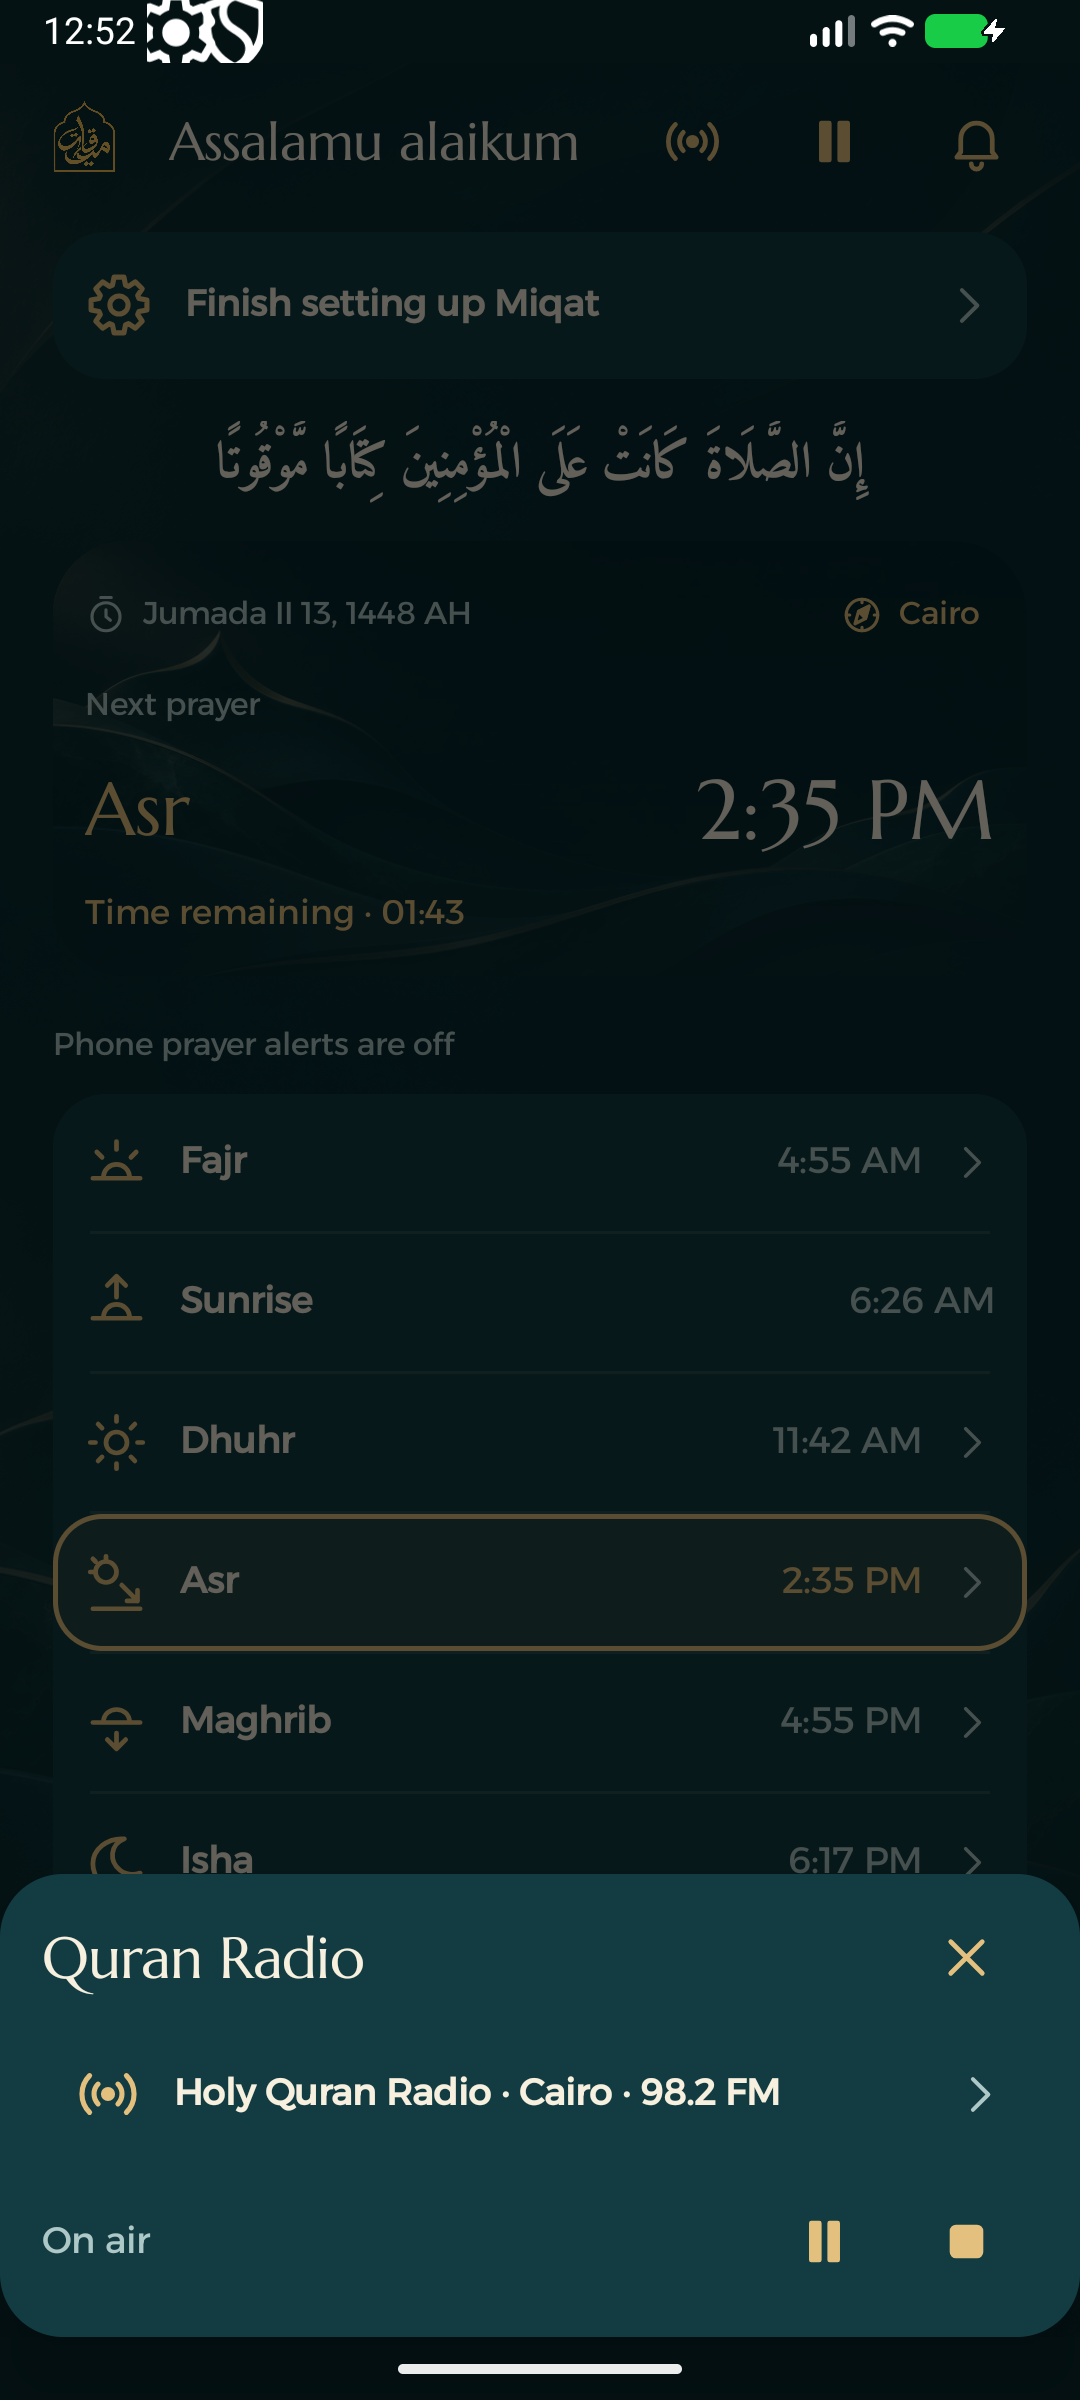
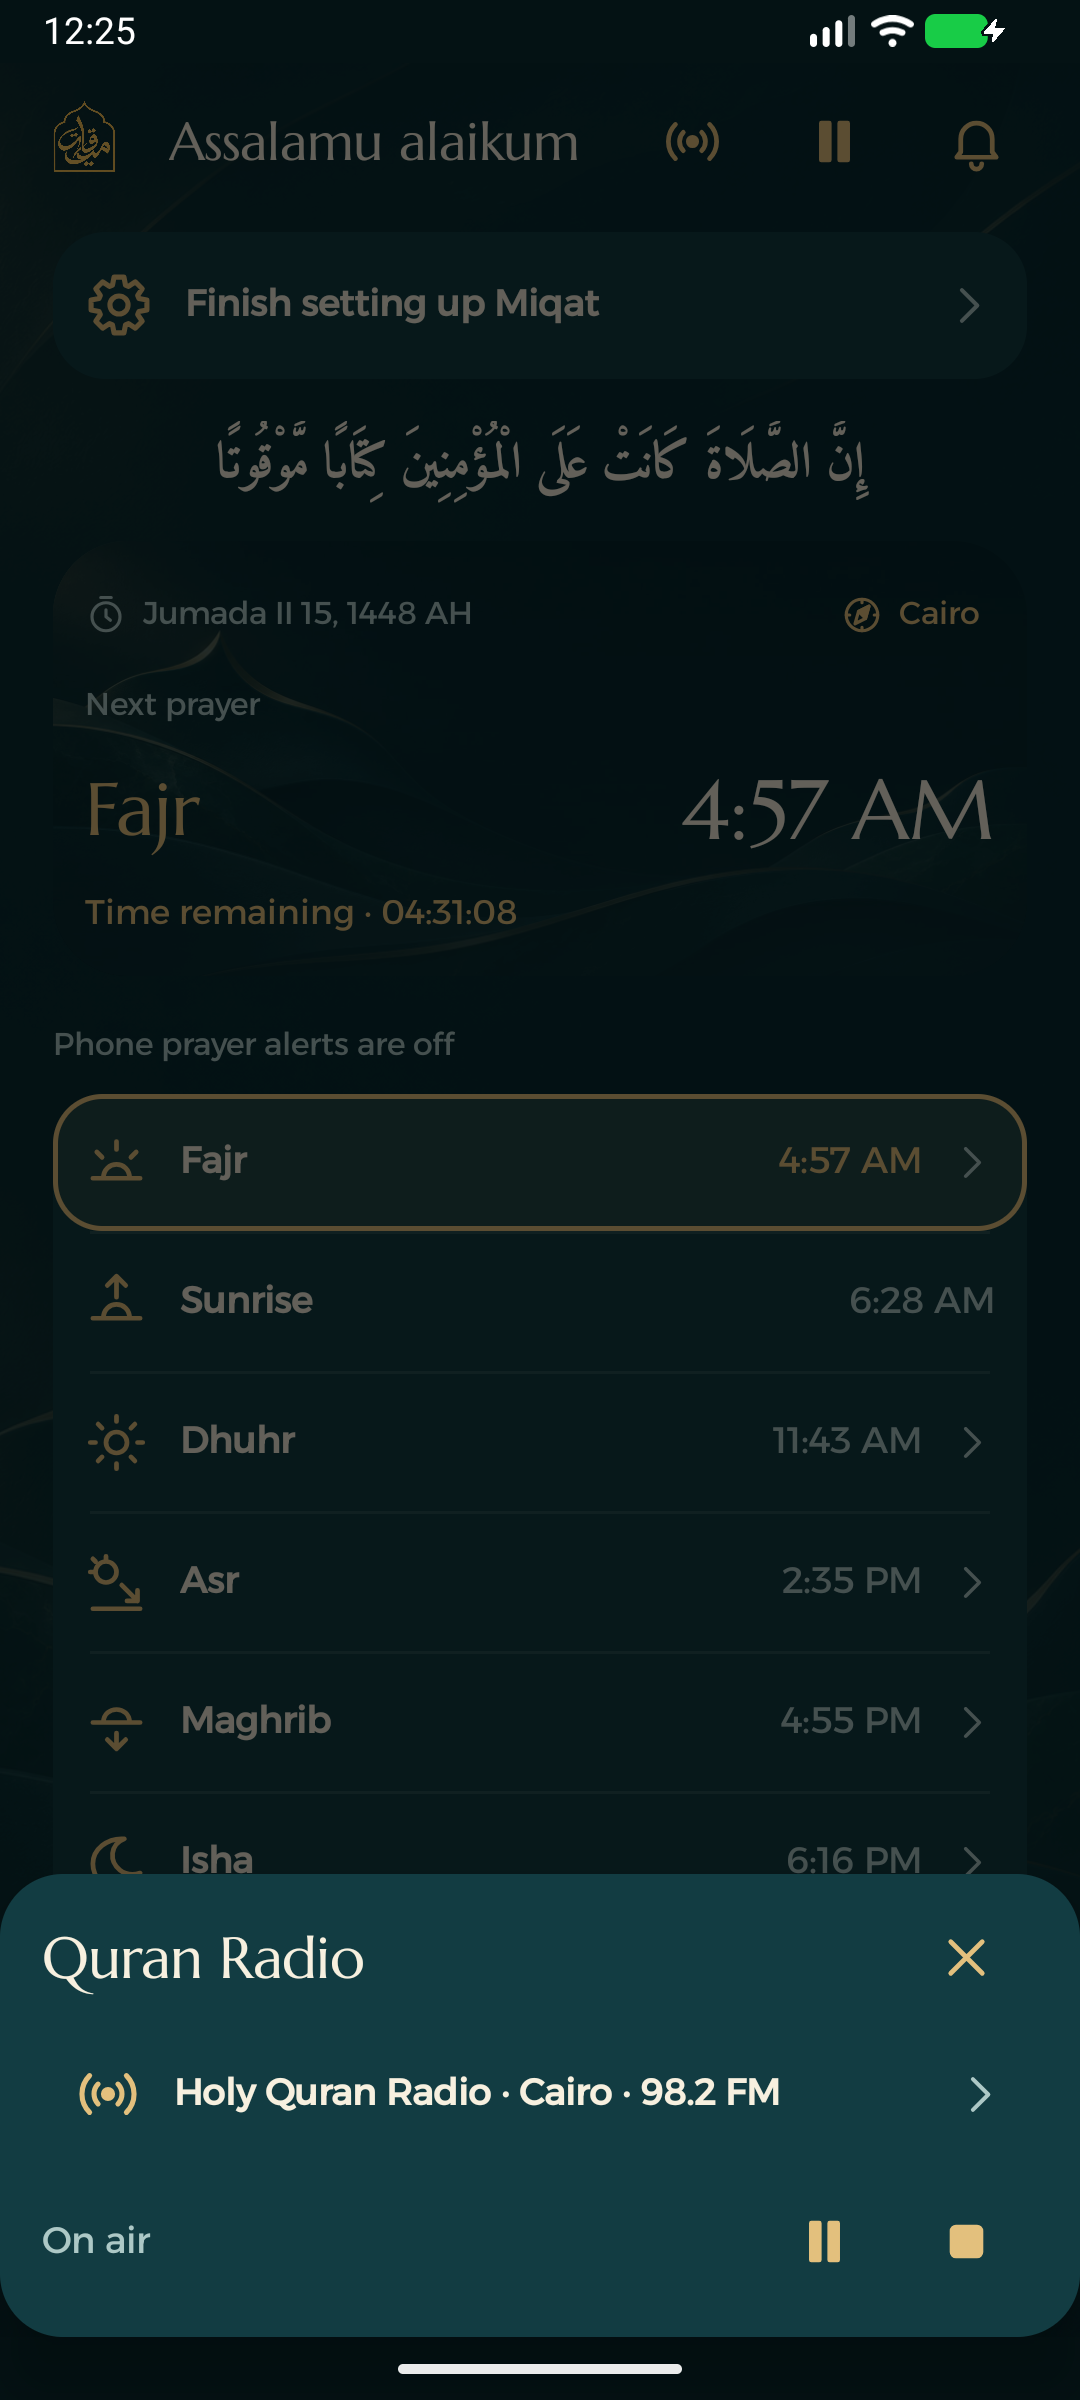
Match Miqat Signature screenshots and add manual Pages publishing

diff --git a/docs/screenshots/README.md b/docs/screenshots/README.md
@@ -1,6 +1,6 @@
 # Product screenshots
 
-Current set: 23 November 2026. Screenshots show the standalone Android phone,
+Current set: 25 November 2026. Screenshots show the standalone Android phone,
 its TV companion mode, Android TV and LG webOS in English and Arabic. Canonical
 PNGs here are unmodified captures with sanitized Cairo/demo fixtures; they contain
 no real household addresses, credentials, private recordings or pairing QR codes.
@@ -12,10 +12,10 @@ the public website.
 
 | Files, with `-en.png` / `-ar.png` | Source |
 | --- | --- |
-| `phone-home` | PhoneJourneyCheck's completed Home fixture with countdown seconds. |
-| `phone-calendar` | Ramadan day 12 selected in the native calendar during the v0.7.4 review. |
-| `phone-fasting` | PhoneFastingCheck's day-before, suhoor and iftar settings in the v0.7.4 review. |
-| `phone-radio` | Native Quran Radio popup on Home from the PR #22 review. |
+| `phone-home` | PhoneHomeCheck's completed Cairo Home fixture with the Mihrab palette, Miqat Signature background and countdown seconds. |
+| `phone-calendar` | PhoneHomeCheck's native Hijri calendar with Arafah selected. |
+| `phone-fasting` | PhoneFastingCheck's day-before, suhoor and iftar settings. |
+| `phone-radio` | PhoneRadioCheck's native Quran Radio popup with the Cairo fixture station. |
 | `phone-prayer` | PhonePolishCheck's per-prayer adjustment and reminder previews. |
 | `phone-voices` | PhoneLibraryCheck's named demonstration audio library. |
 | `phone-location` | PhoneUiCheck's real Location settings. |
@@ -26,13 +26,10 @@ the public website.
 | `android-home` | Native Android TV Home from the 0.7.2 UI-alignment review. |
 | `lg-home` | LG browser-test's aligned Home capture from the 0.2.30 review. |
 
-Earlier phone captures use Miqat 0.5.18/code 34 on an Android 14/API 34 Google APIs
-emulator at 1080×2400, density 420. Fixtures provide dates, locations, themes,
-audio names, sensor headings and demo TVs.
-Radio, Ramadan and fasting captures use phone 0.5.19/code 35 review builds on the
-Android API 37 emulator at 1080×2400 with Cairo selected.
-Home, prayer adjustments, the Qibla map and Circle widget configuration use the
-0.5.22/code 38 review build on the same portrait emulator.
+Phone and companion captures use Miqat 0.7.9/code 7009001 on an Android API 37
+emulator at 1080×2400, density 420. Fixtures supply dates, locations, audio names,
+sensor headings and demo TVs. The emulator's status bar hides notification icons
+during capture.
 
 Android TV 0.7.2/code 13 captures use native Views in a landscape API 34 Google APIs
 emulator at 1920×1080/density 160. Original PNGs include its system navigation
@@ -63,3 +60,6 @@ state and private information before copying the selected PNGs here. Keep raw
 capture sets and logs under ignored state/. Follow [testing](../TESTING.md) for
 LG `--capture` and native TV checks, and [site instructions](../../site/README.md)
 for responsive review/social-card regeneration.
+
+On an owned Android emulator, hide notification icons before capturing with
+`adb -s "$PHONE" shell cmd statusbar send-disable-flag notification-icons`.

diff --git a/docs/CI.md b/docs/CI.md
@@ -6,6 +6,7 @@
 | [Build](../.github/workflows/build.yml) | Manual, **Development** or **Staging** | Installable Actions artifacts or a signed GitHub prerelease. |
 | [Device simulation](../.github/workflows/device-simulation.yml) | Manual on `main`, or called by Production | Android emulator and LG webOS browser-mock results for one Staging candidate. |
 | [Promote to Production](../.github/workflows/promote.yml) | Manual dispatch on `main` | Device simulation, byte-for-byte package promotion and deployment of the release website. |
+| [Publish website](../.github/workflows/publish-website.yml) | Manual dispatch on `main` | Rebuild and publish Pages with the existing stable downloads and update feed. |
 
 ## PR gate
 
@@ -87,5 +88,12 @@ Production tag and verified Android APK versions.
 Pages uses GitHub Actions and the main-only `github-pages` environment. The
 Production run prepares the site before publication and deploys it afterwards.
 A Pages retry uses the same artifact and checks that its release is still the
-current Production version. Site-only changes go live with the next Production
-release.
+current Production version.
+
+For site-only changes, open [Publish website](https://github.com/AbdelrahmanHajjaj/MiqatTV/actions/workflows/publish-website.yml)
+and select **Run workflow** on `main`. The job uses the checked-in screenshots
+and confirms that the live update feed still points to the latest stable release
+and its download assets. It builds and tests both languages before deploying
+through the same Pages environment. Enable **Build and test only** for a dry run.
+If the release and feed differ, finish or retry the Production Pages deployment
+before publishing the website separately.

diff --git a/docs/EVIDENCE.md b/docs/EVIDENCE.md
@@ -1,5 +1,14 @@
 # Validation evidence
 
+## Miqat Signature website captures — 25 November 2026
+
+An isolated API 37 phone emulator captured all 26 Android phone and companion
+images at 1080×2400 from Miqat 0.7.9/code 7009001. Bilingual phone UI, first-use,
+companion controls, fasting, radio and the live Qibla map checks passed. Reviewed
+both galleries for notification icons and demo data. The Arabic and English
+landing captures show the phone and TV in Miqat Signature with the original
+overlapping layout.
+
 ## Website screenshot layout — 25 November 2026
 
 The website build and browser showcase checks passed in Arabic and English at

diff --git a/site/README.md b/site/README.md
@@ -62,8 +62,8 @@ npm --prefix site run test:browser
 
 Run shared-core, site and LG generators sequentially. `npm --prefix site run dev`
 starts local development. Keep the `/MiqatTV/` base path in asset and route URLs.
-PR CI validates the site; only successful main validation deploys it. See
-[website CI](../docs/CI.md#website).
+PR CI validates the site. Production promotion and the manual **Publish website**
+workflow deploy it. See [website CI](../docs/CI.md#website).
 
 For focused product-page review and social-card refresh, after building:
 

diff --git a/CHANGELOG.md b/CHANGELOG.md
@@ -2,7 +2,7 @@
 
 ## Unreleased
 
-- The website shows the TV and phone screens side by side on the landing page, with matching Android TV and LG gallery frames.
+- The landing page shows the Miqat Signature look on both devices. Refreshed phone and companion screenshots hide emulator notification icons.
 
 - Added a Miqat iPhone development target with shared Kotlin prayer rules,
   a native Prayer screen, Hijri calendar, Qibla, alerts and companion views.
